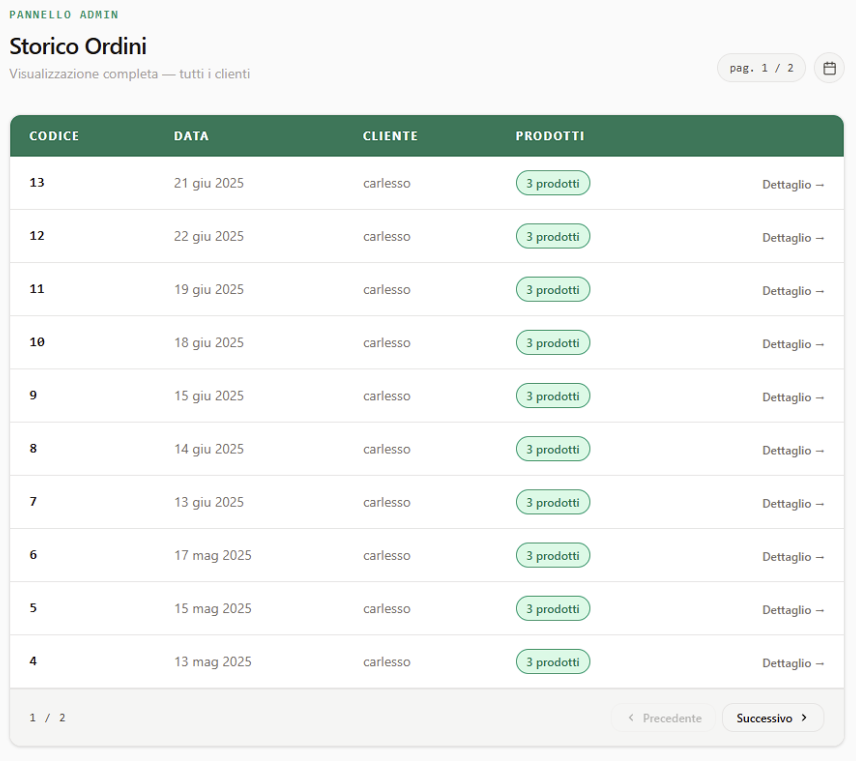
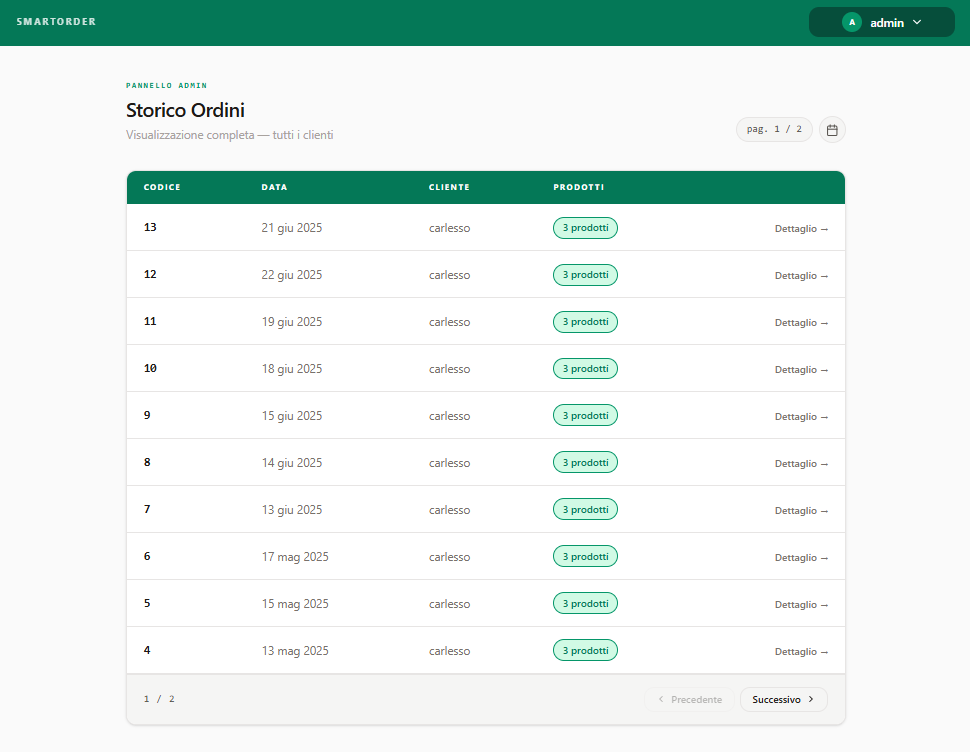
Pull Request Automatica - feature/manuale-utente → main (#332)
* Correzioni

* Auto: aggiorna link glossario Manuale Utente

---------

diff --git a/src/PB/Documenti Esterni/Manuale Utente/content/utilizzo/amministratore.tex b/src/PB/Documenti Esterni/Manuale Utente/content/utilizzo/amministratore.tex
@@ -1,4 +1,5 @@
 \subsection{Area amministratore}
+\label{admin}
 
 Se accedi al sistema con un account \hyperlink{glossario:amministratore}{amministratore}, vedrai un'interfaccia diversa rispetto a quella dell'utente standard.\\
 L'area \hyperlink{glossario:amministratore}{amministratore} \`e pensata per monitorare tutti gli ordini del sistema, senza utilizzare la \hyperlink{glossario:chat}{chat} o il carrello.
@@ -22,7 +23,7 @@ Nella schermata principale puoi visualizzare tutti gli ordini effettuati dagli u
 
 \begin{figure}[H]
 	\centering
-	\includegraphics[width=0.8\textwidth]{ManualeUtente/pannello_admin}
+	\includegraphics[width=0.9\textwidth]{ManualeUtente/pannello_admin}
 	\caption{Storico ordini area amministratore}
 \end{figure}
 
@@ -46,10 +47,15 @@ Nella parte inferiore della schermata trovi i pulsanti:
 
 che ti permettono di scorrere tra le diverse pagine dello storico.
 
-\subsubsection{Filtri}
+\subsubsubsection{Filtri e navigazione storico}
 
-Per trovare pi\`u facilmente gli ordini, puoi utilizzare il filtro per data.\\
-Ti basta selezionare un intervallo temporale per visualizzare solo gli ordini effettuati in quel periodo.
+Per trovare pi\`u facilmente gli ordini puoi utilizzare il filtro per data.\\
+Ti basta selezionare un intervallo temporale per visualizzare solo gli ordini effettuati dai clienti in quel periodo.
+\begin{figure}[H]
+	\centering
+	\includegraphics[width=0.4\textwidth]{ManualeUtente/filtro_data}
+	\caption{Filtro per data amministratore}
+\end{figure}
 Se il numero di ordini \`e elevato, i risultati vengono suddivisi in pi\`u pagine.\\
 Nella parte inferiore della schermata trovi i pulsanti:
 \begin{itemize}[itemsep=5pt, parsep=5pt, label=$\scriptstyle\bullet$]
@@ -58,3 +64,79 @@ Nella parte inferiore della schermata trovi i pulsanti:
 \end{itemize}
 
 che ti permettono di scorrere tra le diverse pagine dello storico.
+
+\subsubsection{Area dedicata}
+
+Nella parte in alto a destra della schermata trovi il menù amministratore.
+Cliccando sul tuo nome, si apre un menù a tendina con diverse opzioni.
+
+\begin{figure}[H]
+	\centering
+	\includegraphics[width=0.35\textwidth]{ManualeUtente/menu_admin}
+	\caption{Menù amministratore}
+\end{figure}
+
+Da qui puoi:
+\begin{itemize}[itemsep=5pt, parsep=5pt, label=$\scriptstyle\bullet$]
+	\item Profilo, per visualizzare e gestire i tuoi dati
+	\item \hyperlink{glossario:logout}{Logout}, per uscire dall'applicazione
+\end{itemize}
+
+\subsubsubsection{Profilo}
+
+Nella sezione Profilo puoi visualizzare le informazioni principali del tuo account, come:
+\begin{itemize}[itemsep=5pt, parsep=5pt, label=$\scriptstyle\bullet$]
+	\item Username
+	\item Email
+\end{itemize}
+
+\begin{figure}[H]
+	\centering
+	\includegraphics[height=0.4\textheight,keepaspectratio]{ManualeUtente/profilo_admin}
+	\caption{Profilo amministratore}
+\end{figure}
+
+Da qui puoi anche gestire alcune impostazioni importanti.
+
+\subsubsubsection{Modifica password}
+
+Se vuoi cambiare la password, clicca su \vr{Reimposta password}.
+
+Ti verr\`a chiesto di inserire:
+\begin{itemize}[itemsep=5pt, parsep=5pt, label=$\scriptstyle\bullet$]
+	\item La password attuale
+	\item La nuova password
+	\item La conferma della nuova password
+\end{itemize}
+
+\begin{figure}[H]
+	\centering
+	\includegraphics[height=0.35\textheight,keepaspectratio]{ManualeUtente/reimposta_password}
+	\caption{Reimposta password amministratore}
+\end{figure}
+Dopo aver compilato i campi, puoi confermare per aggiornare la password.
+
+\subsubsubsection{Eliminazione account}
+
+Se desideri eliminare il tuo account, puoi utilizzare il pulsante \vr{Cancella account}.
+
+Prima di procedere, il sistema ti mostrer\`a una finestra di conferma per avvisarti che l'operazione \`e definitiva.
+\begin{figure}[H]
+	\centering
+	\includegraphics[width=0.4\textwidth]{ManualeUtente/elimina_account}
+	\caption{Elimina account amministratore}
+\end{figure}
+
+Puoi quindi scegliere se:
+\begin{itemize}[itemsep=5pt, parsep=5pt, label=$\scriptstyle\bullet$]
+	\item Confermare, eliminando definitivamente l'account
+	\item Annullare, per tornare indietro senza modifiche
+\end{itemize}
+
+
+\subsubsubsection{Logout}
+
+Per uscire dall'applicazione, seleziona \vr{\hyperlink{glossario:logout}{Logout}} dal menù utente.
+
+
+Verrai disconnesso e riportato alla schermata di login.

diff --git a/src/PB/Documenti Esterni/Manuale Utente/content/utilizzo/carrello.tex b/src/PB/Documenti Esterni/Manuale Utente/content/utilizzo/carrello.tex
@@ -1,4 +1,4 @@
-\subsection{Gestione del carrello}
+\subsubsection{Gestione del carrello}
 
 Il carrello \`e la sezione in cui puoi vedere tutti i prodotti che hai aggiunto durante l'utilizzo della chat.\\
 Si trova nella parte destra della schermata e viene aggiornato automaticamente ogni volta che fai una richiesta, ad esempio aggiungendo o modificando un prodotto.
@@ -11,7 +11,7 @@ Si trova nella parte destra della schermata e viene aggiornato automaticamente o
 
 Puoi anche espandere o nascondere il carrello utilizzando il pulsante con l'icona del carrello, cos\`i da avere pi\`u spazio per lavorare nella \hyperlink{glossario:chat}{chat} quando serve.
 
-\subsubsection{Visualizzazione prodotti}
+\subsubsubsection{Visualizzazione prodotti}
 
 All'interno del carrello trovi l'elenco completo dei prodotti aggiunti.\\
 Per ogni prodotto vengono mostrate le informazioni principali:
@@ -24,7 +24,7 @@ Per ogni prodotto vengono mostrate le informazioni principali:
 
 In questo modo puoi controllare facilmente cosa hai inserito nel tuo ordine.
 
-\subsubsection{Aggiornamento del carrello}
+\subsubsubsection{Aggiornamento del carrello}
 
 Il carrello si aggiorna automaticamente in base a ci\`o che scrivi nella chat.\\
 Ad esempio, puoi:
@@ -37,13 +37,13 @@ Il sistema interpreta la tua richiesta e aggiorna subito il carrello.
 
 Non \`e quindi necessario interagire direttamente con il carrello: tutte le operazioni vengono gestite tramite la \hyperlink{glossario:chat}{chat}, in modo semplice e veloce.
 
-\subsubsection{Totale ordine}
+\subsubsubsection{Totale ordine}
 
 Nella parte inferiore del carrello viene mostrato il totale dell'ordine.
 
 Il valore si aggiorna automaticamente ogni volta che modifichi il contenuto del carrello, cos\`i hai sempre sotto controllo il costo complessivo.
 
-\subsubsection{Invio ordine}
+\subsubsubsection{Invio ordine}
 
 Quando hai completato il tuo ordine, puoi inviarlo cliccando sul pulsante \vr{Invia ordine}.
 

diff --git a/src/PB/Documenti Esterni/Manuale Utente/content/utilizzo/chat.tex b/src/PB/Documenti Esterni/Manuale Utente/content/utilizzo/chat.tex
@@ -1,4 +1,4 @@
-\subsection{Utilizzo della chat}
+\subsubsection{Utilizzo della chat}
 
 La \hyperlink{glossario:chat}{chat} \`e il cuore di SmartOrder: \`e lo strumento principale con cui puoi creare e gestire il tuo ordine.\\
 Puoi scrivere in modo naturale, come se stessi parlando con un assistente, ad esempio chiedendo di aggiungere un prodotto, modificare una quantit\`a o rimuovere un articolo dal carrello.\\
@@ -10,7 +10,7 @@ Il sistema interpreta la tua richiesta e aggiorna automaticamente l'ordine.
 	\caption{Area chat}
 \end{figure}
 
-\subsubsection{Inserimento messaggi}
+\subsubsubsection{Inserimento messaggi}
 
 Per inviare un messaggio, utilizza il campo di input situato nella parte inferiore della chat.
 
@@ -32,7 +32,7 @@ Se invece vuoi andare a capo senza inviare il messaggio, puoi usare la combinazi
 
 Una volta inviato, il messaggio viene subito visualizzato nella \hyperlink{glossario:chat}{chat} e il sistema inizia ad elaborarlo.
 
-\subsubsection{Funzionalit\`a avanzate}
+\subsubsubsection{Funzionalit\`a avanzate}
 
 Oltre ai messaggi di testo, puoi interagire con la \hyperlink{glossario:chat}{chat} anche utilizzando la voce.
 
@@ -58,7 +58,7 @@ Anche in questo caso, la registrazione ha una durata massima di 2 minuti.
 
 Se il limite viene superato, il sistema interrompe la registrazione e ti invita a riprovare con un messaggio pi\`u breve.
 
-\subsubsection{Risposte del sistema}
+\subsubsubsection{Risposte del sistema}
 
 Dopo aver inviato un messaggio, il sistema risponde automaticamente per aiutarti a costruire il tuo ordine.
 
@@ -82,7 +82,7 @@ Le risposte possono essere di diverso tipo:
 
 Grazie a queste risposte, la \hyperlink{glossario:chat}{chat} ti accompagna passo dopo passo nella creazione dell'ordine.
 
-\subsubsection{Stato del sistema}
+\subsubsubsection{Stato del sistema}
 
 Dopo aver inviato un messaggio, potresti notare un indicatore di caricamento nella chat.
 

diff --git a/src/PB/Documenti Esterni/Manuale Utente/content/utilizzo/conversazioni.tex b/src/PB/Documenti Esterni/Manuale Utente/content/utilizzo/conversazioni.tex
@@ -1,4 +1,4 @@
-\subsection{Gestione conversazioni}
+\subsubsection{Gestione conversazioni}
 
 Nella parte sinistra della schermata trovi l'area delle conversazioni, che ti permette di organizzare e gestire tutte le interazioni con la chat.
 
@@ -9,7 +9,7 @@ Nella parte sinistra della schermata trovi l'area delle conversazioni, che ti pe
 \end{figure}
 Ogni conversazione è indipendente e contiene il suo storico di messaggi, cos\`i puoi lavorare su pi\`u richieste senza confonderti.
 
-\subsubsection{Creazione nuova conversazione}
+\subsubsubsection{Creazione nuova conversazione}
 
 Per iniziare una nuova conversazione puoi:
 \begin{itemize}[itemsep=5pt, parsep=5pt, label=$\scriptstyle\bullet$]
@@ -21,7 +21,7 @@ In entrambi i casi verr\`a creata una nuova \hyperlink{glossario:chat}{chat} vuo
 
 Accanto al pulsante di creazione trovi anche un'icona che ti permette di aprire o chiudere il pannello delle conversazioni, utile per avere pi\`u spazio nella schermata quando ne hai bisogno.
 
-\subsubsection{Selezione conversazione}
+\subsubsubsection{Selezione conversazione}
 
 Nell'elenco vengono mostrate tutte le conversazioni disponibili.\\
 Per aprirne una, ti basta cliccarci sopra: la conversazione selezionata diventa attiva e puoi vedere tutti i messaggi nella \hyperlink{glossario:chat}{chat} centrale.
@@ -29,7 +29,7 @@ Per aprirne una, ti basta cliccarci sopra: la conversazione selezionata diventa 
 La conversazione attiva \`e evidenziata, cos\`i puoi capire subito su quale stai lavorando.\\
 Puoi passare da una conversazione all'altra in qualsiasi momento, senza perdere lo storico dei messaggi.
 
-\subsubsection{Gestione conversazione}
+\subsubsubsection{Gestione conversazione}
 
 Ogni conversazione pu\`o essere gestita tramite il menù accessibile con l'icona a tre puntini, accanto al suo nome.
 \begin{figure}[H]

diff --git a/src/PB/Documenti Esterni/Manuale Utente/content/utilizzo/autenticazione_registrazione.tex b/src/PB/Documenti Esterni/Manuale Utente/content/utilizzo/autenticazione_registrazione.tex
@@ -15,7 +15,7 @@ In particolare, puoi:
 	\item Consultare lo storico dei tuoi ordini
 	\item Accedere e gestire il tuo profilo personale
 \end{itemize}
-
+Per visionare i dettagli di ciascuna funzionalità vai alla sezione \ref{utente}
 \subsubsection{Amministratore}
 
 L'\hyperlink{glossario:amministratore}{amministratore} ha accesso a funzionalit\`a dedicate al controllo e alla consultazione degli ordini.
@@ -24,11 +24,14 @@ In particolare, pu\`o:
 \begin{itemize}[itemsep=5pt, parsep=5pt, label=$\scriptstyle\bullet$]
 	\item Visualizzare tutti gli ordini effettuati dagli utenti
 	\item Filtrare gli ordini per data
+	\item Accedere e gestire il tuo profilo personale
 \end{itemize}
 
-A differenza dell'utente standard, l'\hyperlink{glossario:amministratore}{amministratore} non pu\`o registrarsi autonomamente: questo tipo di account viene creato direttamente dal sistema.
+A differenza dell'utente standard, l'\hyperlink{glossario:amministratore}{amministratore} non pu\`o registrarsi autonomamente: questo tipo di account viene creato direttamente dal sistema.\vspace{0.5em}
 
-Si precisa che la registrazione \`e disponibile solo per gli utenti standard. Non \`e possibile creare un account \hyperlink{glossario:amministratore}{amministratore} tramite l'applicazione.
+Per visionare i dettagli di ciascuna funzionalità vai alla sezione \ref{admin}\vspace{0.5em}
+
+Si precisa che la registrazione \`e disponibile solo per gli utenti standard. Non \`e possibile creare un account \hyperlink{glossario:amministratore}{amministratore} tramite l'applicazione, ma l'\hyperlink{glossario:autenticazione}{autenticazione} funziona in ugual modo per entrambi.
 \newpage
 \subsection{Accesso al sistema (Autenticazione)}
 

diff --git a/src/PB/Documenti Esterni/Manuale Utente/content/utilizzo/utente.tex b/src/PB/Documenti Esterni/Manuale Utente/content/utilizzo/utente.tex
@@ -1,4 +1,4 @@
-\subsection{Area utente}
+\subsubsection{Area dedicata}
 
 Nella parte in alto a destra della schermata trovi il menù utente, da cui puoi accedere rapidamente alle principali funzionalit\`a del tuo account.
 
@@ -20,7 +20,7 @@ Da qui puoi:
 
 Questo menù ti permette di muoverti facilmente tra le diverse sezioni senza interrompere il tuo lavoro.
 
-\subsubsection{Profilo utente}
+\subsubsubsection{Profilo utente}
 
 Nella sezione Profilo puoi visualizzare le informazioni principali del tuo account, come:
 \begin{itemize}[itemsep=5pt, parsep=5pt, label=$\scriptstyle\bullet$]
@@ -71,7 +71,7 @@ Puoi quindi scegliere se:
 	\item Annullare, per tornare indietro senza modifiche
 \end{itemize}
 
-\subsubsection{Storico ordini}
+\subsubsubsection{Storico ordini}
 
 Nella sezione Storico puoi visualizzare tutti gli ordini che hai effettuato.
 
@@ -92,7 +92,7 @@ Ogni ordine mostra alcune informazioni utili, come:
 Selezionando un ordine, puoi vedere nel dettaglio tutti i prodotti inclusi.\\
 Inoltre, puoi duplicare un ordine, cos\`i da riutilizzarlo rapidamente senza dover reinserire tutti i prodotti.
 
-\subsubsubsection{Filtri e navigazione storico}
+\subsubsubsubsection{Filtri e navigazione storico}
 
 Per aiutarti a trovare pi\`u facilmente gli ordini, sono disponibili alcune funzioni:
 
@@ -114,7 +114,7 @@ Per aiutarti a trovare pi\`u facilmente gli ordini, sono disponibili alcune funz
 	\end{itemize}
 \end{itemize}
 
-\subsubsection{Logout}
+\subsubsubsection{Logout}
 
 Per uscire dall'applicazione, seleziona \vr{\hyperlink{glossario:logout}{Logout}} dal menù utente.
 

diff --git a/src/PB/Documenti Esterni/Manuale Utente/content/modifiche.tex b/src/PB/Documenti Esterni/Manuale Utente/content/modifiche.tex
@@ -9,7 +9,7 @@
 		\hline
 		\rowcolor[gray]{0.9}
 		\textbf{Vers} & \textbf{Data} & \textbf{Autore} & \textbf{Verificatore} & \textbf{Descrizione} \\
-		1.0.0 & 13-04 & M. Mazzaretto & M. Brunello & Approvazione documento \\
+		1.0.0 & 15-04 & M. Mazzaretto & M. Brunello & Approvazione documento \\
 		\hline
 		0.6.0 & 10-04 & T. Ceron & L. Casagrande & Redazione sezione 6 \\
 		\hline
@@ -17,9 +17,9 @@
 		\hline
 		0.4.0 & 07-04 & L. Marcuzzo & L. Pieripolli & Redazione sezione 3 \\
 		\hline
-		0.3.0 & 21-03 & L. Pieripolli & L. Marcuzzo & Redazione sezione 4.1: Login e Registrazione \\
+		0.3.0 & 21-03 & L. Pieripolli & L. Marcuzzo & Redazione sezione 4.1 \\
 		\hline
-		0.2.0 & 19-03 & M. Brunello & M. Mazzaretto & Redazione sezione Requisiti \\
+		0.2.0 & 19-03 & M. Brunello & M. Mazzaretto & Redazione sezione 2 \\
 		\hline
 		0.1.0 & 17-03 & M. Mazzaretto & L. Casagrande & Creazione e stesura documento \newline Redazione sezione Introduzione \newline Redazione sezione 5 \\
 		\hline

diff --git a/src/PB/Documenti Esterni/Manuale Utente/content/utilizzo/interfaccia.tex b/src/PB/Documenti Esterni/Manuale Utente/content/utilizzo/interfaccia.tex
@@ -1,6 +1,9 @@
-\subsection{Interfaccia principale}
+\subsection{Area utente}
+\label{utente}
 
-\subsubsection{Struttura della schermata}
+\subsubsection{Interfaccia principale}
+
+\subsubsubsection{Struttura della schermata}
 
 Dopo aver effettuato l'accesso, ti troverai nella schermata principale dell'applicazione, da cui puoi gestire tutte le funzionalit\`a di SmartOrder.
 

diff --git a/src/PB/Documenti Esterni/Manuale Utente/content/table.tex b/src/PB/Documenti Esterni/Manuale Utente/content/table.tex
@@ -2,7 +2,7 @@
 \begin{tabular}{r|l}
     Stato & Approvato per PB \\[0.5em]
     Versione & 1.0.0 \\[0.5em]
-    Data ultima modifica & 13/04/2026 \\[0.5em]
+    Data ultima modifica & 15/04/2026 \\[0.5em]
     Redattori & L. Marcuzzo \\
               & M. Mazzaretto \\
               & M. Brunello \\ 
